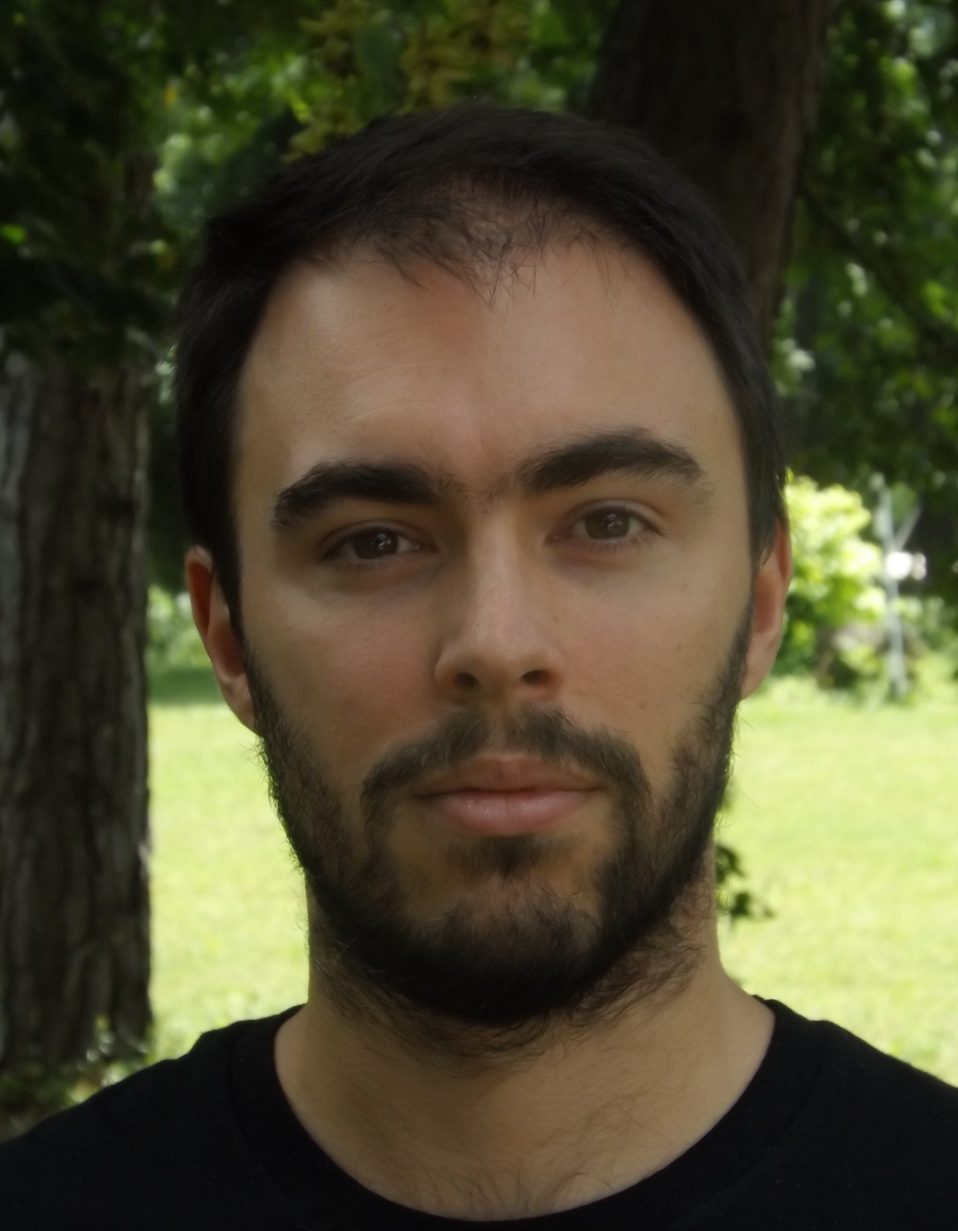
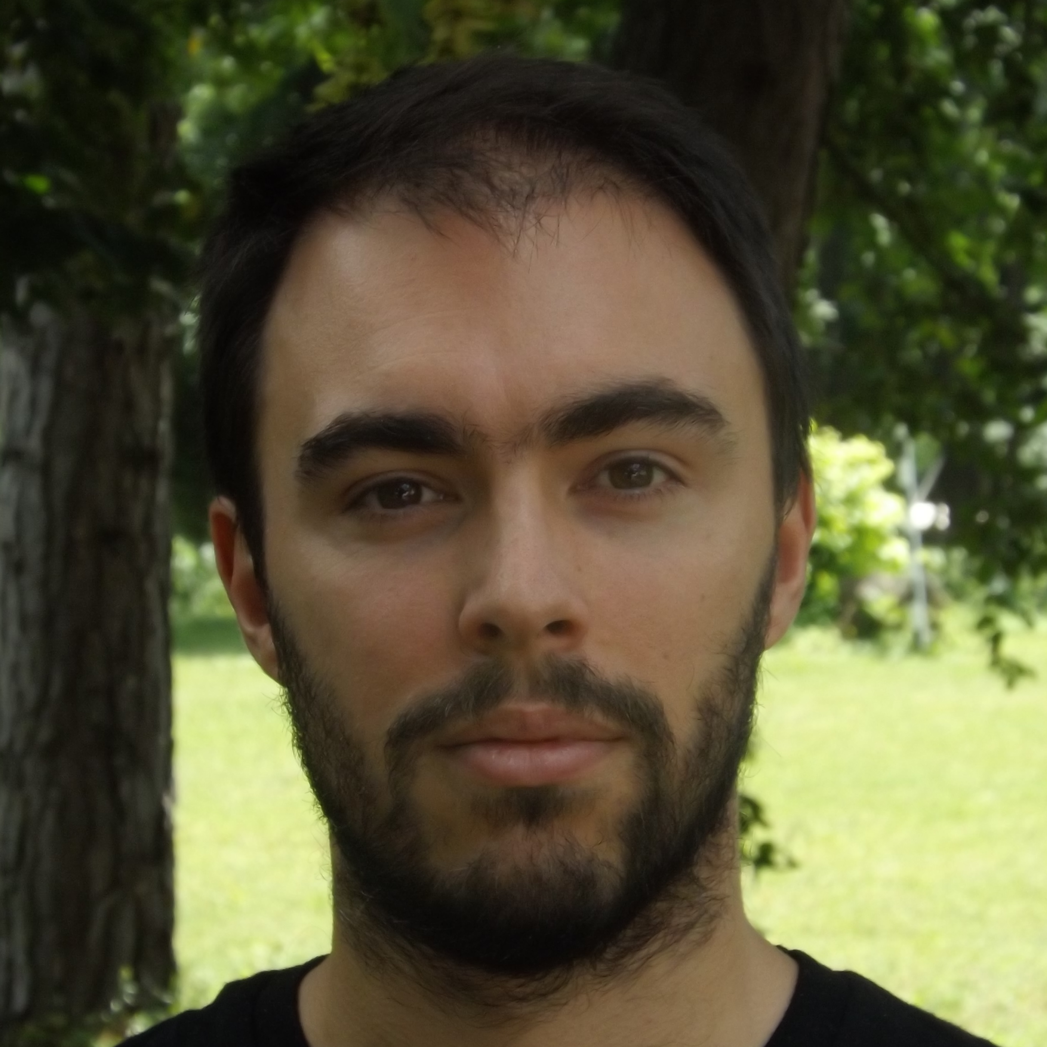
Portait mobile optimization

diff --git a/index.html b/index.html
@@ -30,7 +30,7 @@
 				<div class="container">
 					<div class="row">
 						<div class="col-4 col-5-large col-12-medium">
-							<span class="image fit"><img src="images/a.jpg" alt="" /></span>
+							<span class="image fit"><img src="images/a1.jpg" alt="" /></span>
 						</div>
 						<div class="col-8 col-7-large col-12-medium">
 							<header>

diff --git a/assets/css/main.css b/assets/css/main.css
@@ -1633,8 +1633,9 @@ input, select, textarea {
 		}
 
 		.image.fit {
-			display: block;
+			display: inline-grid;
 			width: 100%;
+			height: 100%;
 		}
 
 		.image.featured {
